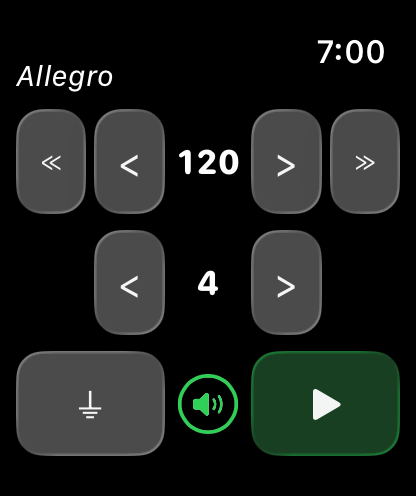
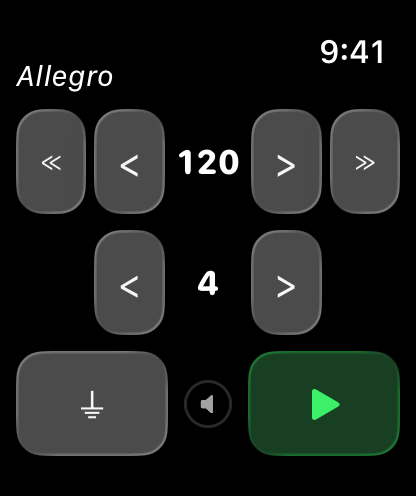
Update Metronome website for version 1.6

diff --git a/docs/metronome/index.html b/docs/metronome/index.html
@@ -19,15 +19,16 @@
   <div>
     <h1 id="top">Metronome Watch Special</h1>
     <p>A simple, precise metronome for Apple Watch.
-Set BPM from 40 to 240, choose from preset tempos (Largo, Andante, Allegro and more),
-1–9 beats per measure with automatic first-beat accent,
-sound and haptic feedback, Digital Crown volume control.
-Works with wrist down, no phone needed.</p>
+Set any tempo from 15 to 240 BPM, or choose a preset from Larghissimo through Prestissimo.
+Pick 1–9 beats per measure with an automatic first-beat accent.
+Use sound, haptics, or both, and adjust volume with the Digital Crown.
+Ideal for music practice, rowing stroke rate, running cadence, walking pace, and other rhythm-based exercise.
+Works with wrist down, remembers your last settings, and needs no iPhone.</p>
     <div class="product-badges" aria-label="Pricing and privacy">
       <span class="pricing-pill paid">One-time payment</span>
       <span class="trust-note">No ads · No tracking · No subscription</span>
     </div>
-    <p class="compatibility-note">Requires watchOS 10 or later.</p>
+    <p class="compatibility-note">Requires watchOS 8 or later.</p>
   </div>
 </div>
 
@@ -73,8 +74,8 @@ Works with wrist down, no phone needed.</p>
 <h2 id="manual" class="section-h2 section-anchor">Manual</h2>
 
 <div class="screenshots">
-  <img src="./images/metronome1.png" alt="Metronome screen">
-  <img src="./images/metronome2.png" alt="Tempo list">
+  <img src="./images/metronome1.png" alt="Metronome set to 120 BPM and 4 beats per measure">
+  <img src="./images/metronome2.png" alt="Tempo preset list beginning with Larghissimo at 15 BPM">
 </div>
 
 <h3>How to use</h3>
@@ -87,6 +88,7 @@ Works with wrist down, no phone needed.</p>
   <li>Press the green play button to start, red stop button to reset</li>
 </ul>
 <div class="tip">💡 The metronome keeps playing even when your wrist is down — audio and haptics continue in the background.</div>
+<div class="tip">💡 Your tempo, beats per measure, and haptic setting are remembered when you close and reopen the app.</div>
 
 <h3>Tempo Reference</h3>
 <table>
@@ -94,6 +96,7 @@ Works with wrist down, no phone needed.</p>
     <tr><th>Tempo</th><th>BPM Range</th><th>Feel</th></tr>
   </thead>
   <tbody>
+    <tr><td><i>Larghissimo</i></td><td>15 – 39</td><td>Extremely slow</td></tr>
     <tr><td><i>Largo</i></td><td>40 – 59</td><td>Very slow, broad</td></tr>
     <tr><td><i>Larghetto</i></td><td>60 – 65</td><td>Rather slow</td></tr>
     <tr><td><i>Adagio</i></td><td>66 – 75</td><td>Slow and stately</td></tr>
@@ -110,6 +113,8 @@ Works with wrist down, no phone needed.</p>
 <ul>
   <li><b>Does it work without my iPhone?</b><br>Yes, fully standalone.</li>
   <li><b>Does it work when my wrist is down?</b><br>Yes, audio and haptics continue.</li>
+  <li><b>Does it remember my settings?</b><br>Yes. Your last tempo, beats per measure, and haptic setting are restored when you reopen the app.</li>
+  <li><b>Can I use it for exercise?</b><br>Yes. Tempos from 15 BPM work well for rowing stroke rate, while higher tempos can support running or walking cadence.</li>
   <li><b>Does it collect any data?</b><br>No data is collected or shared.</li>
   <li><b>What does the ⏚ button do?</b><br>Haptics are currently on. Tap to turn them off.</li>
   <li><b>What does the ⚡︎ button do?</b><br>Haptics are currently off. Tap to turn them on.</li>
@@ -121,7 +126,7 @@ Works with wrist down, no phone needed.</p>
 <h2 id="legal" class="section-h2 section-anchor">Legal</h2>
 
 <h3>Privacy Policy</h3>
-<p><b>Last Updated:</b> March 2026</p>
+<p><b>Last Updated:</b> July 2026</p>
 
 <h4>Introduction</h4>
 <p>Welcome to Metronome Watch Special. We are committed to respecting and protecting your privacy.
@@ -132,6 +137,8 @@ and the methods we use to ensure your privacy.</p>
 <p>Metronome Watch Special is designed on a principle of zero data collection. We do not collect,
 store, use, share, or transfer any personal data from our users. The app operates entirely on your
 Apple Watch with no data processed or stored on any server.</p>
+
+<p>Your metronome preferences are stored only on your Apple Watch so the app can restore them when reopened.</p>
 
 <h4>Third-Party Services</h4>
 <p>Metronome Watch Special does not integrate with any third-party services, such as analytics
@@ -151,7 +158,7 @@ at: support [at] hoshinosoftware [dot] com</p>
 
 <div class="doc-end-logo">
   <a href="../" aria-label="Hoshino Software &amp; Security home">
-    <img src="../hoshino.png" alt="Hoshino Software & Security logo">
+    <img src="../hoshino.png" alt="Hoshino Software &amp; Security logo">
   </a>
 </div>
 